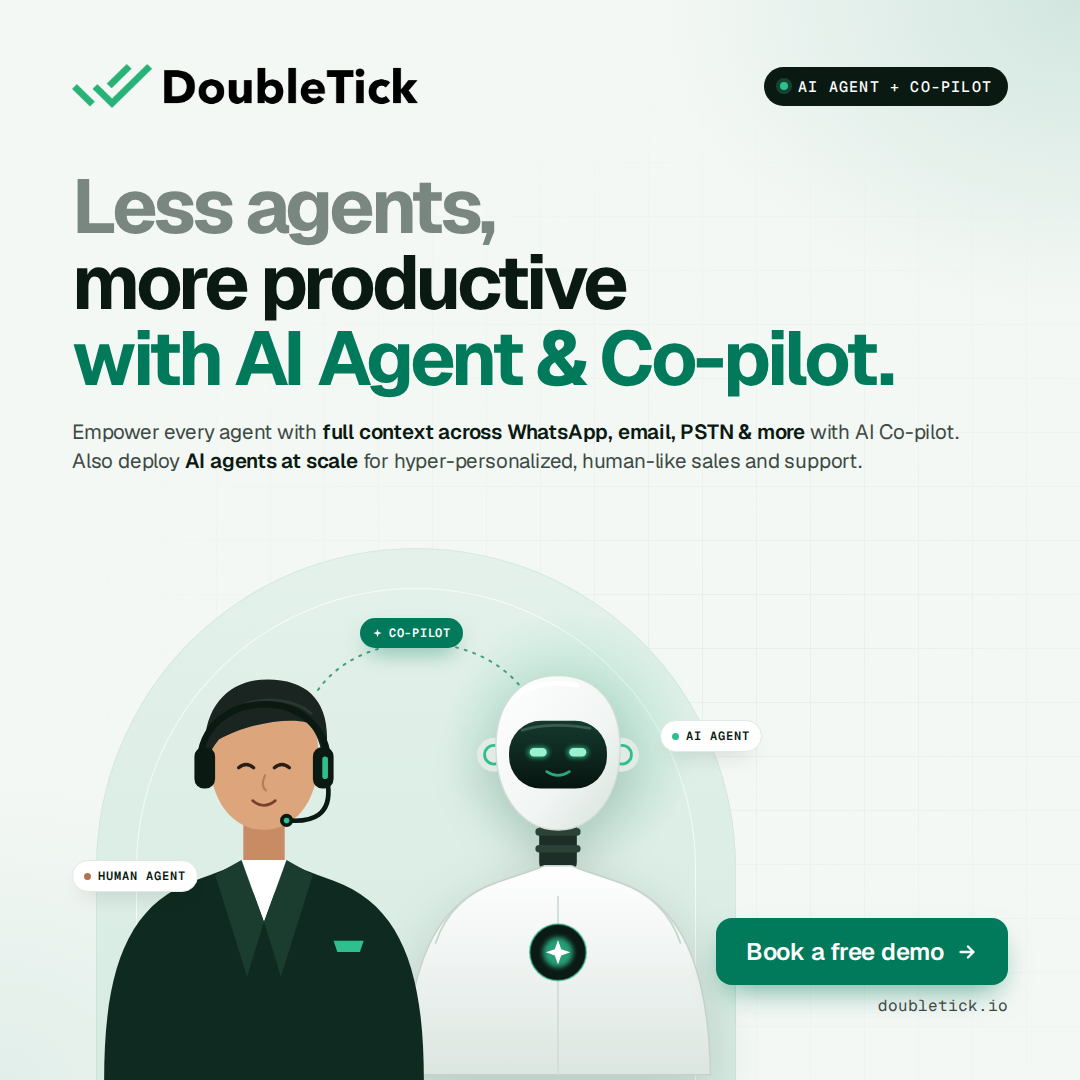
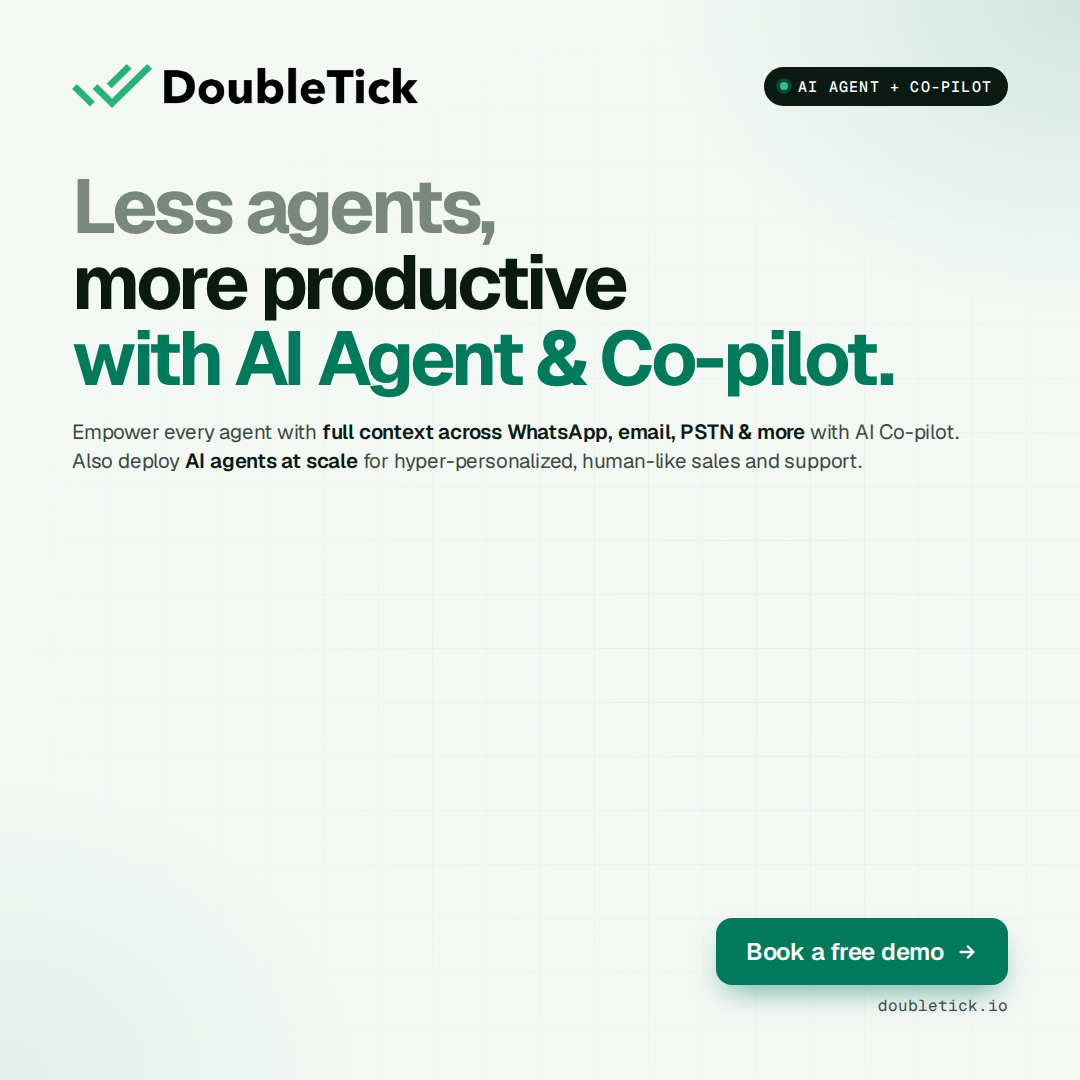
feat: remove visual from human + bot ad, leaving blank space
Claude-Session: https://claude.ai/code/session_013Hi5o4KgvuLbKTeGkStAKX

Changed region(s): [[0.0917, 0.55, 0.7028, 1.0], [0.4889, 0.8556, 0.55, 0.9167]]

diff --git a/ads/doubletick-ai-human-bot/index.html b/ads/doubletick-ai-human-bot/index.html
@@ -101,105 +101,6 @@
 </head>
 <body>
 <div class="ad">
-  <div class="hero">
-    <div class="arch"></div>
-    <div class="arch2"></div>
-    <div class="glow"></div>
-    <svg class="bot" viewBox="0 0 340 520" fill="none">
-      <defs>
-        <linearGradient id="shell" x1="0" y1="0" x2="1" y2="1">
-          <stop offset="0" stop-color="#FFFFFF"/><stop offset=".6" stop-color="#F1F5F3"/><stop offset="1" stop-color="#D5E1DB"/>
-        </linearGradient>
-        <linearGradient id="torso" x1="0" y1="0" x2="0" y2="1">
-          <stop offset="0" stop-color="#FFFFFF"/><stop offset="1" stop-color="#DCE6E1"/>
-        </linearGradient>
-        <linearGradient id="visor" x1="0" y1="0" x2="0" y2="1">
-          <stop offset="0" stop-color="#143A2E"/><stop offset="1" stop-color="#07140F"/>
-        </linearGradient>
-        <filter id="gl" x="-50%" y="-50%" width="200%" height="200%"><feGaussianBlur stdDeviation="3"/></filter>
-      </defs>
-      <!-- neck -->
-      <rect x="150" y="236" width="40" height="72" rx="14" fill="#1C2E27"/>
-      <rect x="146" y="258" width="48" height="8" rx="4" fill="#2A4238"/>
-      <rect x="146" y="276" width="48" height="8" rx="4" fill="#2A4238"/>
-      <!-- torso -->
-      <path d="M8 520 C 10 408, 38 338, 104 316 C 128 308, 146 302, 156 298 L 184 298 C 194 302, 212 308, 236 316 C 302 338, 330 408, 332 520 Z" fill="url(#torso)" stroke="#C3D2CA" stroke-width="1.5"/>
-      <path d="M104 316 C 70 328, 50 350, 40 380" stroke="#C9D6CF" stroke-width="2" stroke-linecap="round"/>
-      <path d="M236 316 C 270 328, 290 350, 300 380" stroke="#C9D6CF" stroke-width="2" stroke-linecap="round"/>
-      <path d="M170 330 L 170 520" stroke="#D3DED8" stroke-width="2"/>
-      <!-- chest core -->
-      <circle cx="170" cy="390" r="30" fill="#0B1A14"/>
-      <circle cx="170" cy="390" r="30" fill="none" stroke="#2FBF8F" stroke-width="2" opacity=".6"/>
-      <circle cx="170" cy="390" r="16" fill="#2FBF8F" filter="url(#gl)" opacity=".8"/>
-      <path d="M170 377 l3.4 9.6 9.6 3.4 -9.6 3.4 -3.4 9.6 -3.4 -9.6 -9.6 -3.4 9.6 -3.4z" fill="#fff"/>
-      <g transform="translate(0,16)">
-      <!-- ear discs -->
-      <circle cx="102" cy="164" r="18" fill="#E2EAE6"/>
-      <circle cx="102" cy="164" r="10" fill="none" stroke="#2FBF8F" stroke-width="3"/>
-      <circle cx="238" cy="164" r="18" fill="#E2EAE6"/>
-      <circle cx="238" cy="164" r="10" fill="none" stroke="#2FBF8F" stroke-width="3"/>
-      <!-- head -->
-      <path d="M104 156 C 104 104, 134 80, 170 80 C 206 80, 236 104, 236 156 C 236 208, 208 244, 170 244 C 132 244, 104 208, 104 156 Z" fill="url(#shell)" stroke="#CFDCD5" stroke-width="1.5"/>
-      <path d="M128 100 C 146 88, 170 86, 190 90" stroke="#FFFFFF" stroke-width="5" stroke-linecap="round" opacity=".9"/>
-      <!-- visor -->
-      <rect x="118" y="128" width="104" height="72" rx="34" fill="url(#visor)"/>
-      <path d="M132 138 C 150 132, 180 131, 204 136" stroke="#FFFFFF" stroke-width="3" stroke-linecap="round" opacity=".18"/>
-      <!-- eyes -->
-      <g filter="url(#gl)" opacity=".9"><rect x="138" y="156" width="22" height="11" rx="5.5" fill="#2FBF8F"/><rect x="180" y="156" width="22" height="11" rx="5.5" fill="#2FBF8F"/></g>
-      <rect x="140" y="157" width="18" height="9" rx="4.5" fill="#9BF0CF"/>
-      <rect x="182" y="157" width="18" height="9" rx="4.5" fill="#9BF0CF"/>
-      <path d="M158 182 q12 8 24 0" stroke="#2FBF8F" stroke-width="3" stroke-linecap="round" opacity=".85"/>
-      </g>
-    </svg>
-    <svg class="human" viewBox="0 0 340 520" fill="none">
-      <!-- neck -->
-      <path d="M148 214 L 148 292 L 192 292 L 192 214 Z" fill="#C98B64"/>
-      <path d="M148 226 C 160 250, 180 250, 192 226 L 192 214 L 148 214 Z" fill="#B27250" opacity=".75"/>
-      <!-- body / blazer -->
-      <path d="M0 520 C 0 404, 24 334, 96 308 C 120 300, 138 292, 148 286 L 192 286 C 202 292, 220 300, 244 308 C 316 334, 340 404, 340 520 Z" fill="#0F2A20"/>
-      <!-- shirt + collar -->
-      <path d="M146 286 L 170 352 L 194 286 Z" fill="#FFFFFF"/>
-      <path d="M146 286 L 136 300 L 160 322 Z" fill="#EEF3F0"/>
-      <path d="M194 286 L 204 300 L 180 322 Z" fill="#EEF3F0"/>
-      <!-- lapels -->
-      <path d="M146 286 L 118 302 L 152 410 L 170 352 Z" fill="#1B3D30"/>
-      <path d="M194 286 L 222 302 L 188 410 L 170 352 Z" fill="#1B3D30"/>
-      <!-- pocket square + pin -->
-      <path d="M244 372 L 276 372 L 272 384 L 248 384 Z" fill="#2FBF8F"/>
-      <g transform="translate(0,16)">
-      <!-- ears -->
-      <ellipse cx="112" cy="172" rx="10" ry="16" fill="#D39A72"/>
-      <ellipse cx="228" cy="172" rx="10" ry="16" fill="#D39A72"/>
-      <!-- head -->
-      <path d="M112 160 C 112 112, 138 92, 170 92 C 202 92, 228 112, 228 160 C 228 206, 204 238, 170 238 C 136 238, 112 206, 112 160 Z" fill="#DCA57C"/>
-      <!-- face -->
-      <path d="M143 172 q8 -7 16 0" stroke="#2A1D17" stroke-width="3.4" stroke-linecap="round"/>
-      <path d="M181 172 q8 -7 16 0" stroke="#2A1D17" stroke-width="3.4" stroke-linecap="round"/>
-      <path d="M171 180 q-5 12 1 16" stroke="#B27250" stroke-width="2.4" stroke-linecap="round" opacity=".8"/>
-      <path d="M158 207 q12 10 24 0" stroke="#7A3F2A" stroke-width="3" stroke-linecap="round"/>
-      <!-- hair -->
-      <path d="M108 170 C 100 108, 132 78, 174 78 C 222 78, 246 108, 234 168 C 230 146, 226 134, 216 124 C 194 118, 150 126, 122 142 C 116 150, 110 158, 108 170 Z" fill="#1A2420"/>
-      <path d="M150 104 C 176 96, 204 100, 220 114" stroke="#2E3B36" stroke-width="3" stroke-linecap="round" opacity=".8"/>
-      <!-- headset -->
-      <path d="M102 172 C 98 82, 242 82, 238 172" stroke="#0A1A12" stroke-width="7" stroke-linecap="round"/>
-      <rect x="96" y="150" width="22" height="44" rx="10" fill="#0A1A12"/>
-      <rect x="222" y="150" width="22" height="44" rx="10" fill="#0A1A12"/>
-      <rect x="232" y="160" width="6" height="24" rx="3" fill="#2FBF8F"/>
-      <path d="M238 190 C 242 222, 222 230, 196 228" stroke="#0A1A12" stroke-width="5" stroke-linecap="round"/>
-      <circle cx="194" cy="228" r="7" fill="#0A1A12"/>
-      <circle cx="194" cy="228" r="3" fill="#2FBF8F"/>
-      </g>
-    </svg>
-    <svg class="links" viewBox="0 0 1080 1080" fill="none">
-      <path d="M318 690 C 360 630, 470 626, 520 686" stroke="#007A5A" stroke-width="2" stroke-dasharray="2 7" stroke-linecap="round" opacity=".7"/>
-    </svg>
-    <div class="co mono" style="left:360px;top:618px">
-      <svg width="11" height="11" viewBox="0 0 24 24" fill="#fff"><path d="M12 2l2.2 6.6L21 11l-6.8 2.4L12 20l-2.2-6.6L3 11l6.8-2.4z"/></svg>Co-pilot
-    </div>
-    <div class="tag mono" style="left:72px;top:860px"><i style="background:#B27250"></i>Human agent</div>
-    <div class="tag mono" style="left:660px;top:720px"><i style="background:var(--green-2)"></i>AI agent</div>
-  </div>
-
   <div class="top">
     <img class="logo" src="doubletick-logo.webp" alt="DoubleTick" />
     <div class="pill mono"><i></i>AI Agent + Co-pilot</div>
